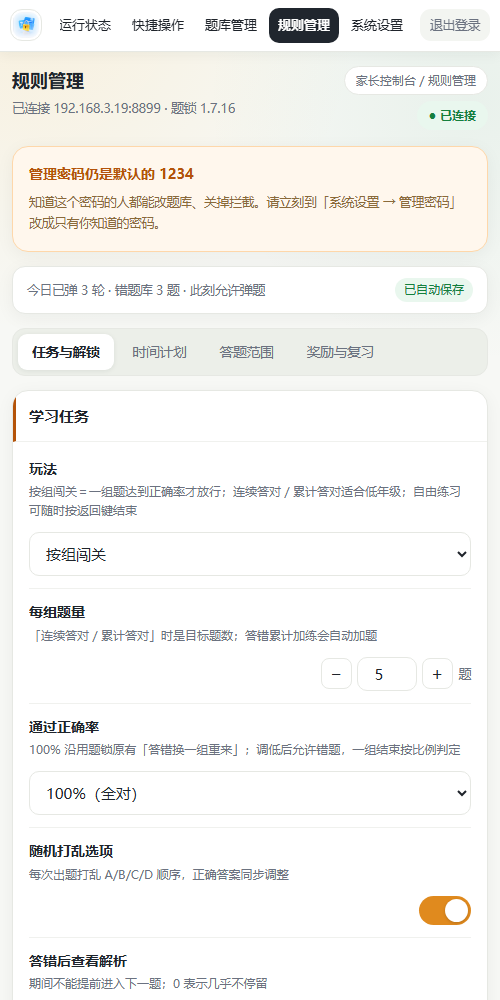
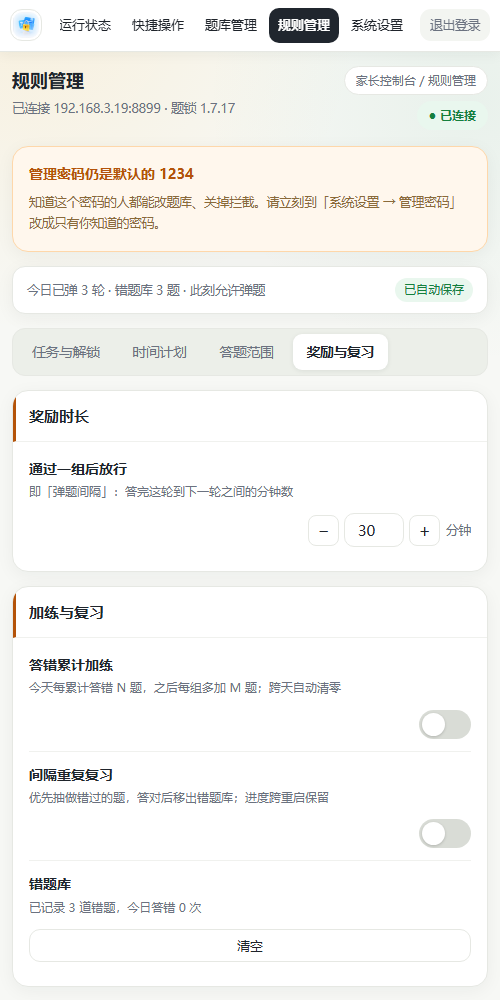
v1.7.17 修复规则管理卡片宽度不齐
- .panel/.seg/.note/.stack 去掉 max-width:900px，规则管理四个分段与顶部统计条、
  下方说明条同为 1100px 内容列宽，右边缘对齐（原来卡片比统计条窄一截、右侧留白）
- 修正答题范围首次进入显示「题库里还没有科目」：state 到达后重画科目/年级多选
- 截图与 README 布局说明同步

diff --git a/app/src/main/assets/admin.html b/app/src/main/assets/admin.html
@@ -71,7 +71,7 @@
 
   .cards{display:grid;grid-template-columns:repeat(2,minmax(0,1fr));gap:14px;align-items:start}
   .cards>.wide{grid-column:1/-1}
-  .stack{display:grid;grid-template-columns:1fr;gap:14px;max-width:900px}
+  .stack{display:grid;grid-template-columns:1fr;gap:14px}
 
   .card{background:var(--card);border:1px solid var(--line);border-radius:16px;padding:16px;
     box-shadow:var(--shadow)}
@@ -129,13 +129,13 @@
 
   /* ---------------- 规则管理里的四段（内容区分段，不是左侧导航） ---------------- */
   .seg{display:flex;gap:5px;background:#ecefe9;border:1px solid var(--line);border-radius:13px;
-    padding:5px;margin-bottom:14px;overflow-x:auto;scrollbar-width:none;max-width:900px}
+    padding:5px;margin-bottom:14px;overflow-x:auto;scrollbar-width:none}
   .seg::-webkit-scrollbar{display:none}
   .seg button{flex:0 0 auto;min-width:0;border:0;background:transparent;border-radius:9px;
     padding:9px 14px;font-size:13.5px;color:var(--sub);font-weight:500;white-space:nowrap}
   .seg button.on{background:#fff;color:var(--txt);font-weight:650;box-shadow:0 1px 5px rgba(24,32,40,.08)}
   .panel{background:var(--card);border:1px solid var(--line);border-radius:16px;margin-bottom:14px;
-    box-shadow:var(--shadow);overflow:hidden;max-width:900px}
+    box-shadow:var(--shadow);overflow:hidden}
   .panel>h2{font-size:15px;margin:0;padding:13px 16px;border-bottom:1px solid var(--line-soft);
     font-weight:650;padding-left:13px;border-left:3px solid var(--accent)}
   .panel .desc{color:var(--sub);font-size:12.5px;padding:10px 16px 0;margin:0}
@@ -159,7 +159,7 @@
   .cchip.on{background:#fff5e8;border-color:#f4c68c;color:var(--accent)}
   .cchip.on b{color:#c07a28}
   .note{background:#fffaf1;border:1px solid #f6e2c3;border-radius:11px;padding:11px 13px;
-    color:#7c5a22;font-size:12.5px;line-height:1.75;margin:12px 0 2px;max-width:900px}
+    color:#7c5a22;font-size:12.5px;line-height:1.75;margin:12px 0 2px}
   .note.gray{background:var(--soft);border-color:var(--line);color:var(--sub)}
   .tpl{display:flex;flex-wrap:wrap;gap:7px;margin:10px 0 4px}
   .tpl button{flex:0 0 auto;min-width:0;padding:6px 11px;border-radius:8px;border:1px solid var(--line);
@@ -797,7 +797,11 @@
   }
 
   function loadState() {
-    return api('/api/state').then(function (s) { state = s; render(); }).catch(function (e) {
+    return api('/api/state').then(function (s) {
+      state = s; render();
+      // 首次 state 到达后重画科目/年级多选（init 时 state 还是 null，会显示「题库里还没有科目」）
+      if (cfg && curView && curView.indexOf('rules') === 0) { renderScope(); }
+    }).catch(function (e) {
       $('subline').textContent = '连接失败：' + e.message;
       $('connBadge').className = 'conn bad';
       $('connBadge').textContent = '● 连接失败';
@@ -1411,6 +1415,7 @@
     return api('/api/state').then(function (s) {
       state = s;
       render();
+      renderScope();
       $('statline').textContent = '今日已弹 ' + (s.roundsToday || 0) + ' 轮 · 错题库 ' +
         (s.reviewDue || 0) + ' 题 · 此刻' + (s.ruleAllowedNow ? '允许' : '不') + '弹题';
       $('reviewStat').textContent = '已记录 ' + (s.reviewDue || 0) + ' 道错题，今日答错 ' + (s.wrongToday || 0) + ' 次';
